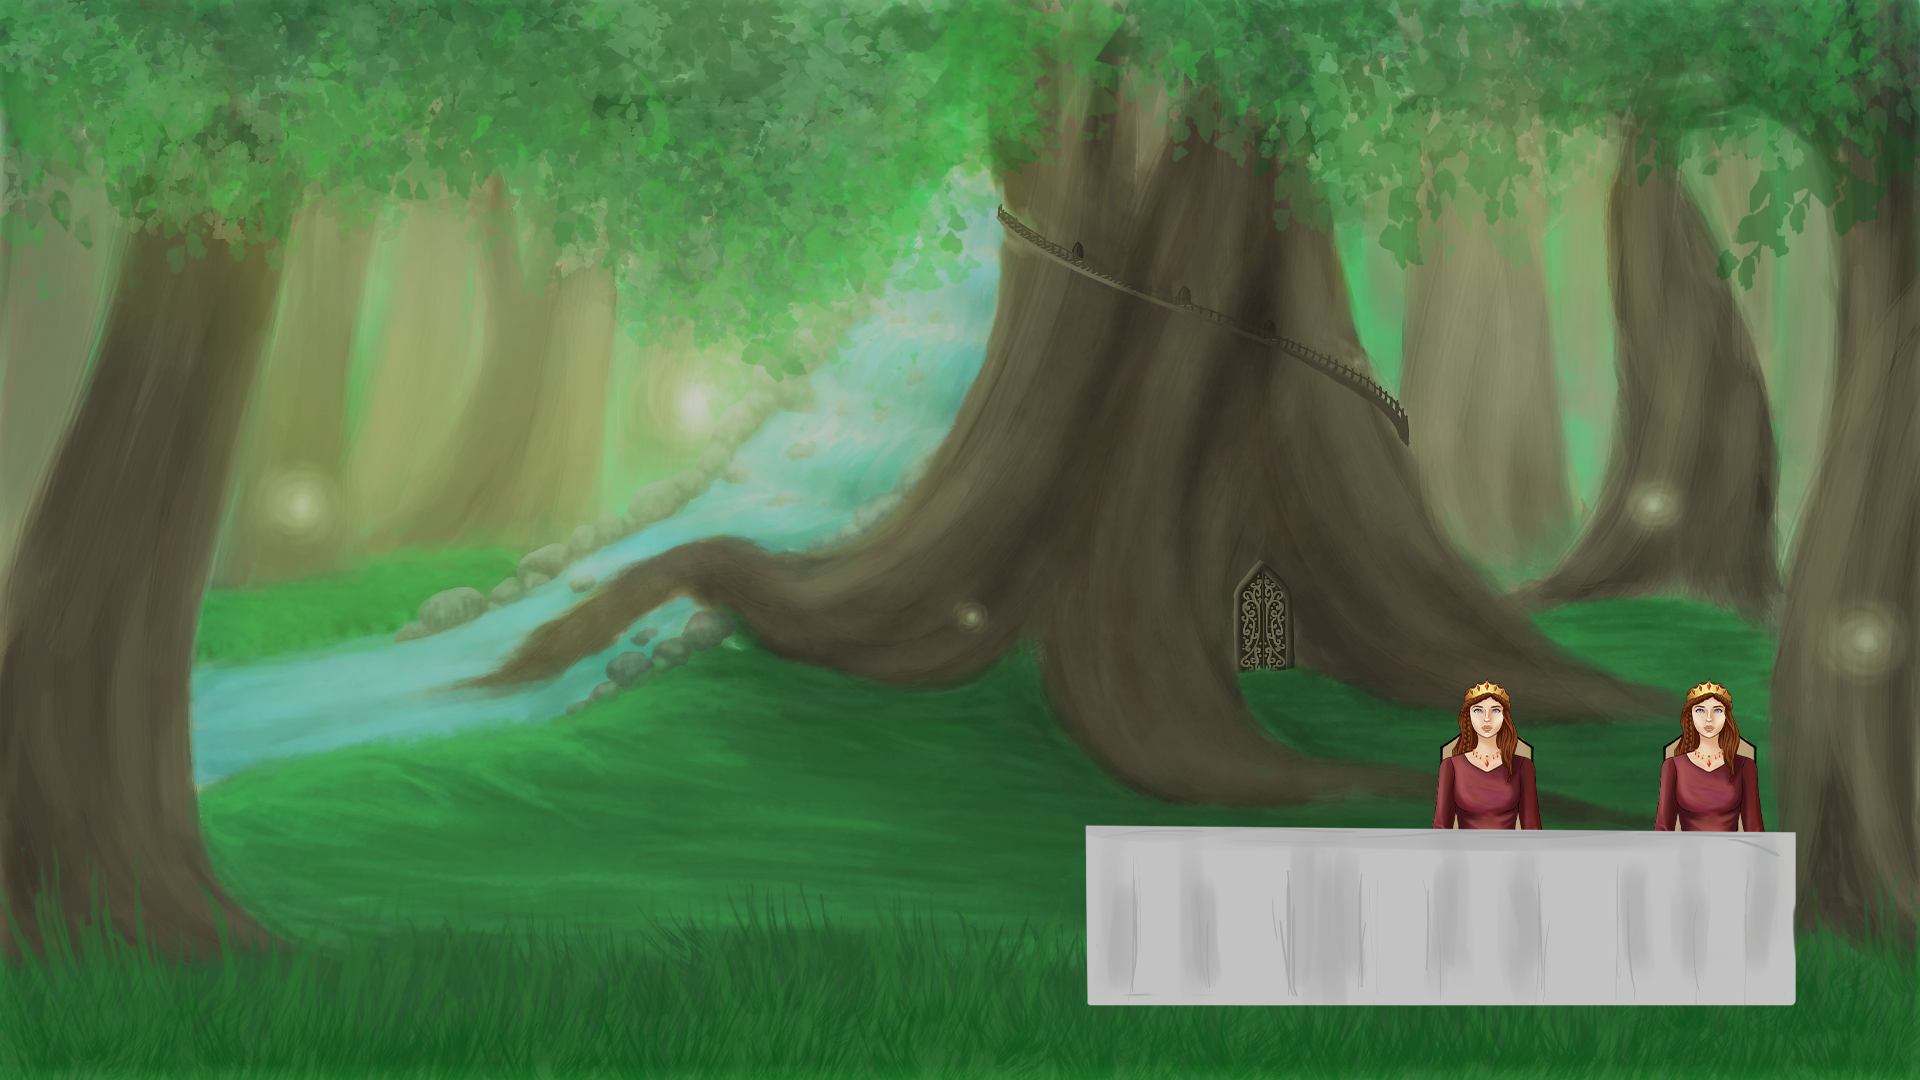
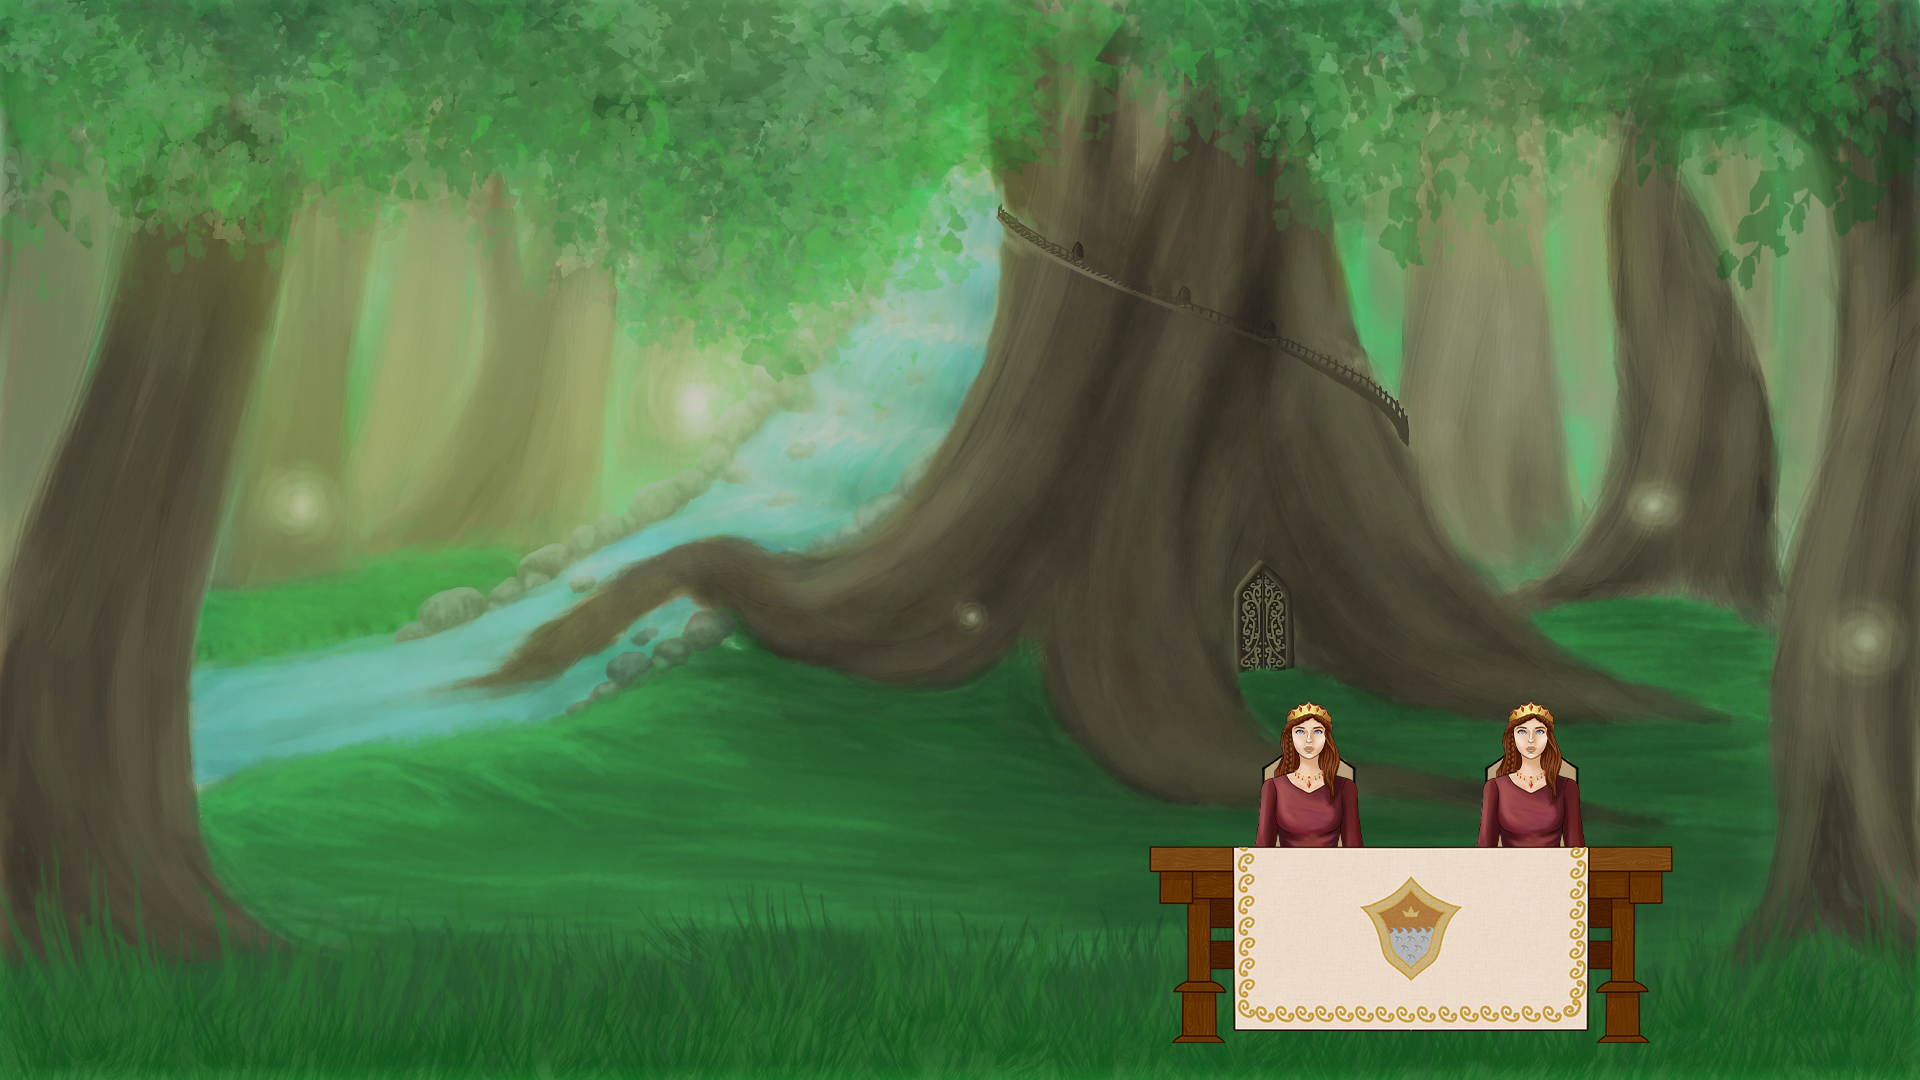
Add another level

Changed region(s): [[0.5625, 0.6111, 0.9375, 0.9778]]

diff --git a/core/src/fi/tuni/tamk/tiko/kingsfeast/LevelBuilder.java b/core/src/fi/tuni/tamk/tiko/kingsfeast/LevelBuilder.java
@@ -28,7 +28,7 @@ class LevelBuilder {
     Array<LevelData> buildLevels() {
         Array<LevelData> levels = new Array<>();
         levels.add(level1());
-        //levels.add(level2());
+        levels.add(level2());
         //levels.add(level3());
         //levels.add(level4());
         return levels;
@@ -41,7 +41,7 @@ class LevelBuilder {
     }
 
     private LevelData level2() {
-        return new LevelData(kingsFeast.getAssetManager().get("level1.tmx",
+        return new LevelData(kingsFeast.getAssetManager().get("map2.tmx",
                 TiledMap.class));
     }
 

diff --git a/core/src/fi/tuni/tamk/tiko/kingsfeast/GameScreen.java b/core/src/fi/tuni/tamk/tiko/kingsfeast/GameScreen.java
@@ -373,10 +373,10 @@ public class GameScreen extends ScreenAdapter {
                 userDataB.equals("foodPlate") && userDataA.equals("walls")) {
 
             if (userDataA.equals("foodPlate")) {
-                foodPlate.getBody().setLinearDamping(0.66f);
+                foodPlate.getBody().setLinearDamping(0.43f);
             }
             if (userDataB.equals("foodPlate")) {
-                foodPlate.getBody().setLinearDamping(0.66f);
+                foodPlate.getBody().setLinearDamping(0.43f);
             }
         }
     }

diff --git a/core/src/fi/tuni/tamk/tiko/kingsfeast/LoadingScreen.java b/core/src/fi/tuni/tamk/tiko/kingsfeast/LoadingScreen.java
@@ -91,6 +91,7 @@ public class LoadingScreen extends ScreenAdapter {
     private void loadAssets() {
         kingsFeast.getAssetManager().getLogger().setLevel(Logger.DEBUG);
         kingsFeast.getAssetManager().load("map1.tmx", TiledMap.class);
+        kingsFeast.getAssetManager().load("map2.tmx", TiledMap.class);
         kingsFeast.getAssetManager().load("level1.tmx", TiledMap.class);
         kingsFeast.getAssetManager().load("level2.tmx", TiledMap.class);
         kingsFeast.getAssetManager().load("level3.tmx", TiledMap.class);
